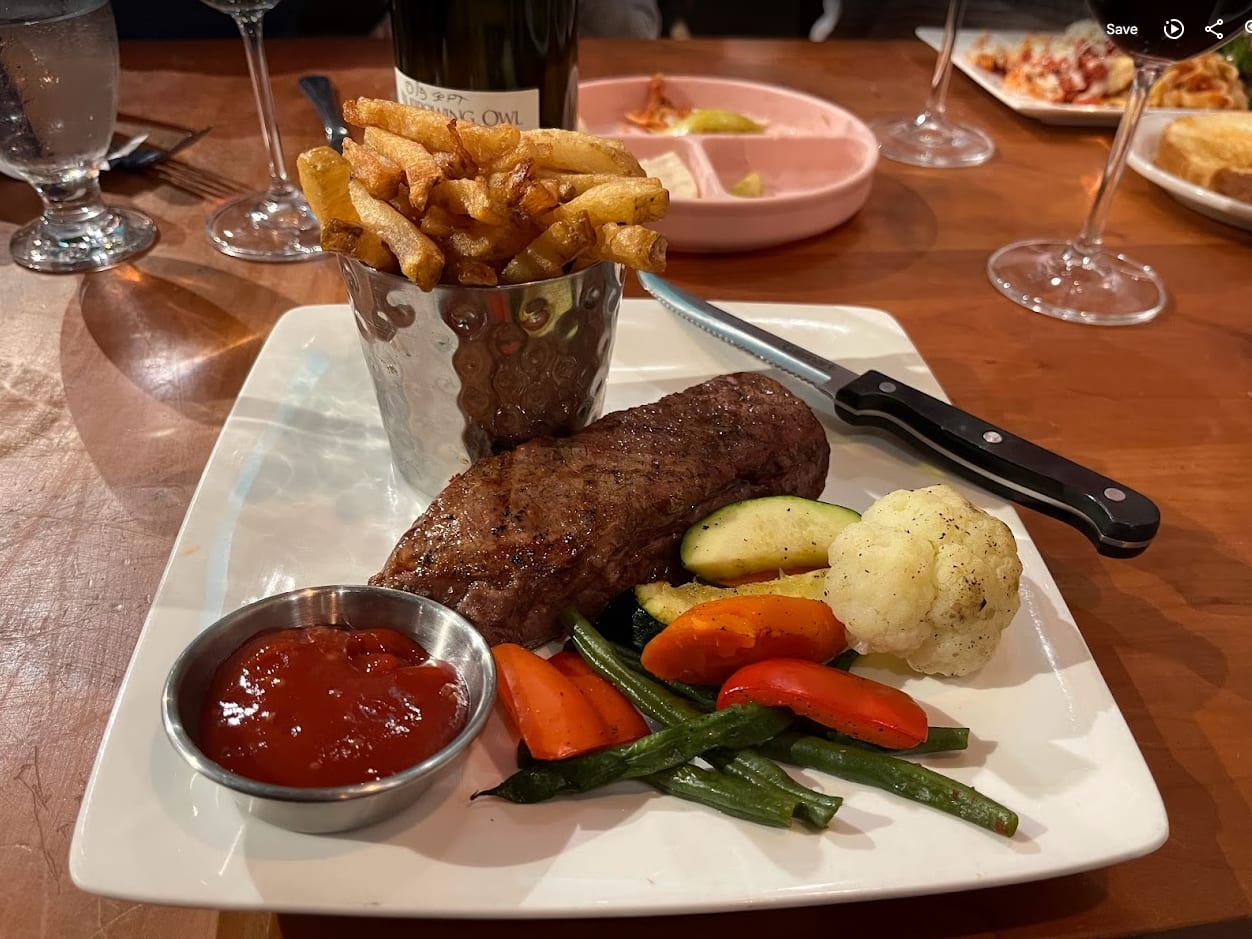
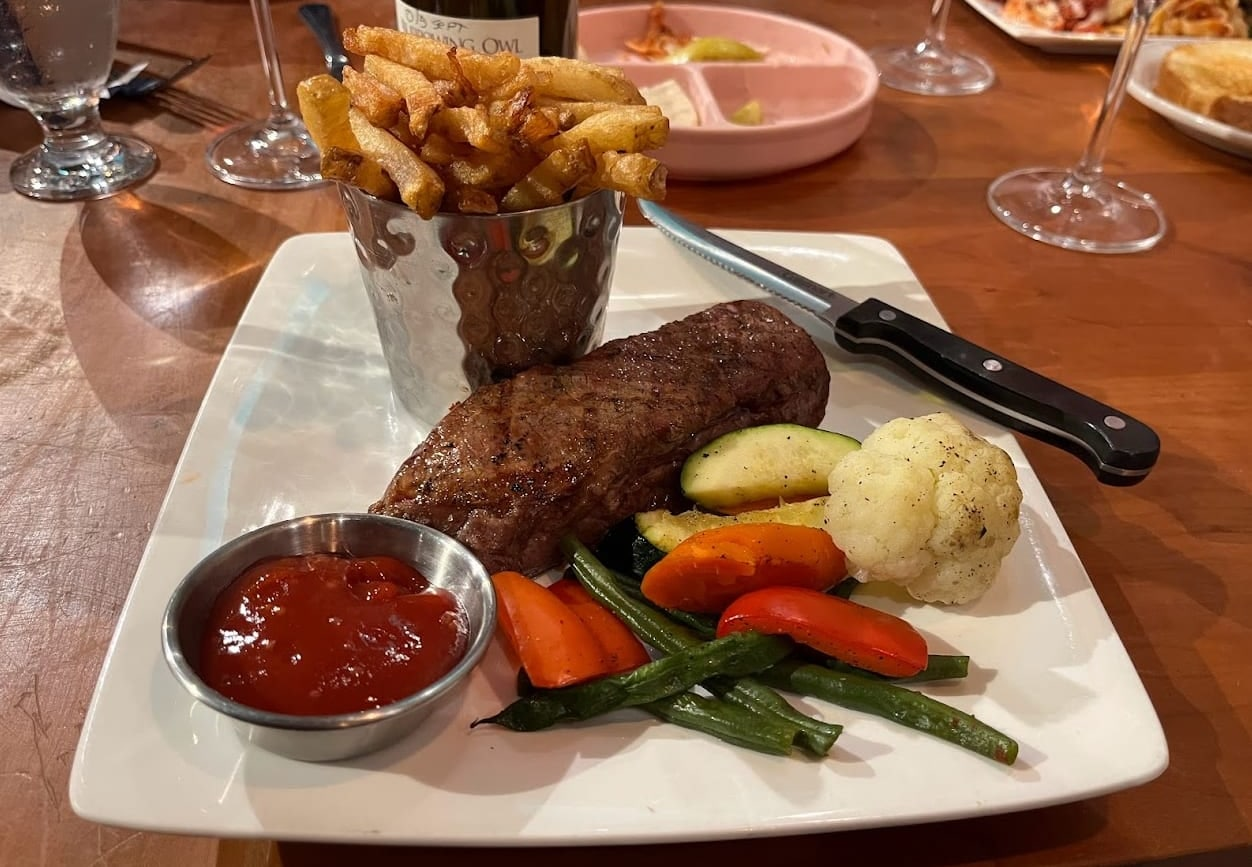
Give services and reviews their own hero photos, and strip the player chrome
Services now leads with the line of potato-crusted plates and romesco. It
was already in the repo as screenshot-2026-08-14-204208, with the video
player's Save/share icons burnt into the top right corner — 72px off the
top clears them, saved as plating-line-romesco.jpg so the name says what
it is. The chrome-bearing frame drops out of the gallery pool.

Three more frames shipped the same overlay in the gallery (204026, 204041,
204615). Cropped in place. The originals still carry it, so prep-images
says why the derivatives must not be regenerated blindly.

Reviews takes the stuffed-poblano photo services gave up. It is square, and
a full-bleed hero scales a square to the viewport width no matter how short
the box is — so the band was a sliver of forearm. Taller, and pushed to 56%
down the frame, keeps the hand and the finished plate in shot.

diff --git a/src/data/images.ts b/src/data/images.ts
@@ -33,7 +33,10 @@ const SLOTS: Record<string, string> = {
   'gal-torte': 'cheesecake',
   'gal-salmon': 'salmononseafoodrisotto',
   'menu-burrowing-owl': 'burrowinowlwinedinner22sept2022',
-  'hero-services': '750-2757-edit',                // hands finishing stuffed poblanos
+  // Cropped from screenshot-2026-08-14-204208 — that frame has the video
+  // player's Save/share overlay burnt into the top right corner.
+  'hero-services': 'plating-line-romesco',         // hands finishing a line of plates
+  'hero-reviews': '750-2757-edit',                 // hands finishing stuffed poblanos
   'plating': 'screenshot-2026-08-14-203255',       // scallops — chosen by Jan
 
   // --- provisional ---

diff --git a/src/data/gallery.ts b/src/data/gallery.ts
@@ -22,6 +22,7 @@ const EXCLUDE = new Set([
   'janet-blackwhite-1024x1024',
   'janwithbiaaward',
   'screenshot-2026-08-14-201754',
+  'screenshot-2026-08-14-204208',  // superseded by plating-line-romesco
   'screenshot-2026-08-14-205449',
   'burrowinowlwinedinner22sept2022',
   'wccc-logo-circle',
@@ -43,6 +44,7 @@ const NAMED: Record<string, string> = {
   'turkeydinner': 'Roast turkey dinner, carved and plated',
   'tuscan-chicken': 'Tuscan chicken, plated with sauce',
   'img-1033-collage': 'A set of dishes from one event',
+  'plating-line-romesco': 'Plates finished with green beans and romesco',
 };
 
 const GENERIC = [
